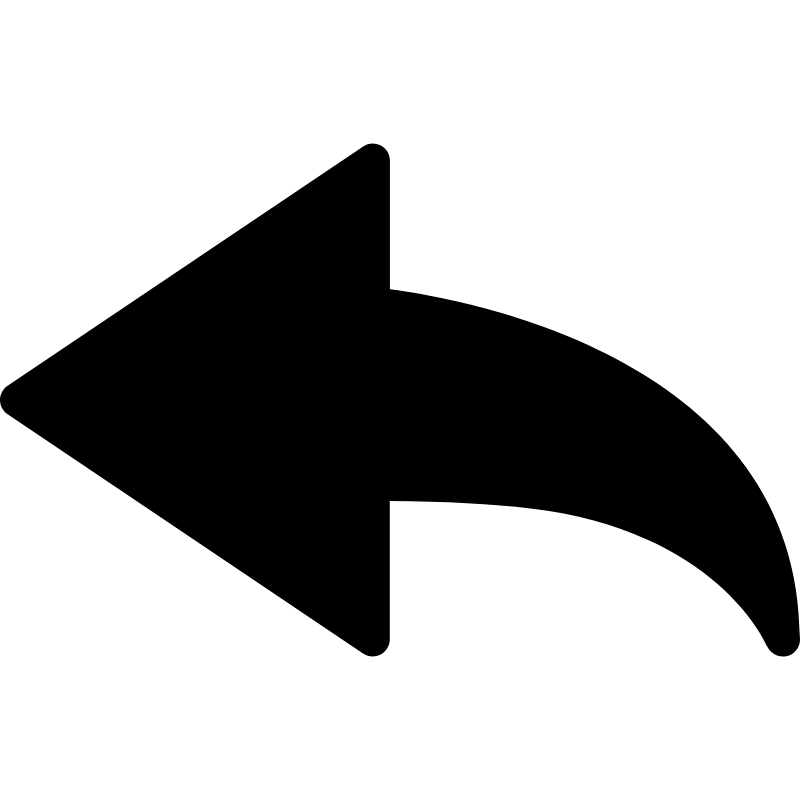
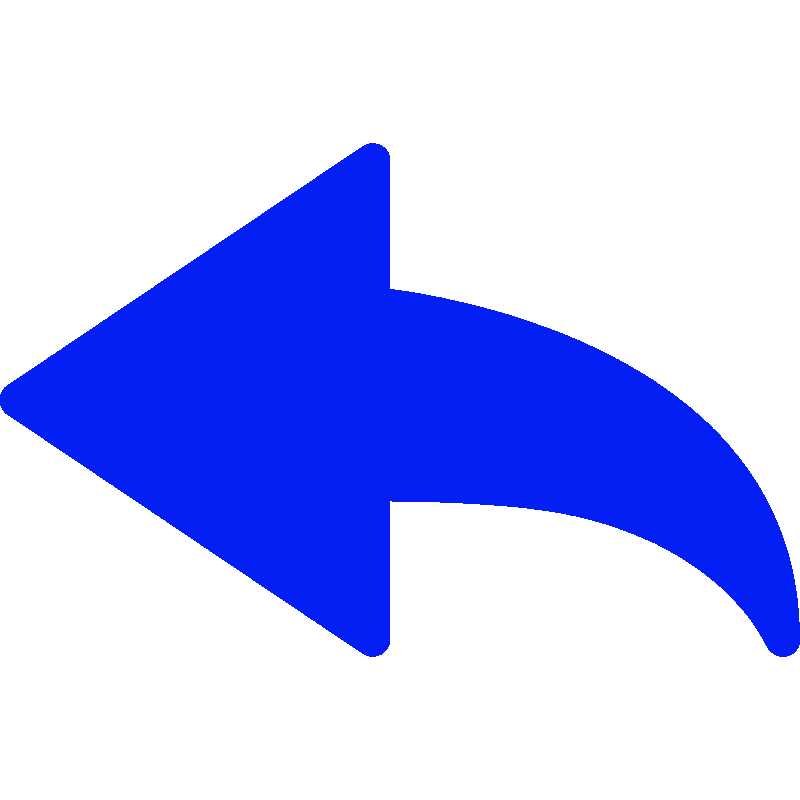
docs: Update link to 'Volver al README' in guia.md

Changed region(s): [[0.0, 0.1562, 1.0, 0.8438]]

diff --git a/guia.md b/guia.md
@@ -68,4 +68,4 @@ Para ejecutar una distribución de WSL específica desde PowerShell o el Símbol
 - **Integración:** Mayor integración con el sistema de archivos y la red de Windows.
 - **Administración de recursos:** Permite controlar la asignación de recursos de CPU y memoria para las distribuciones de Linux.
 
- [![Volver al README](img/back.png)](README.md)
+<a href="README.md"><img src="img/seccion.png" alt="Volver al README" width="200"></a>
